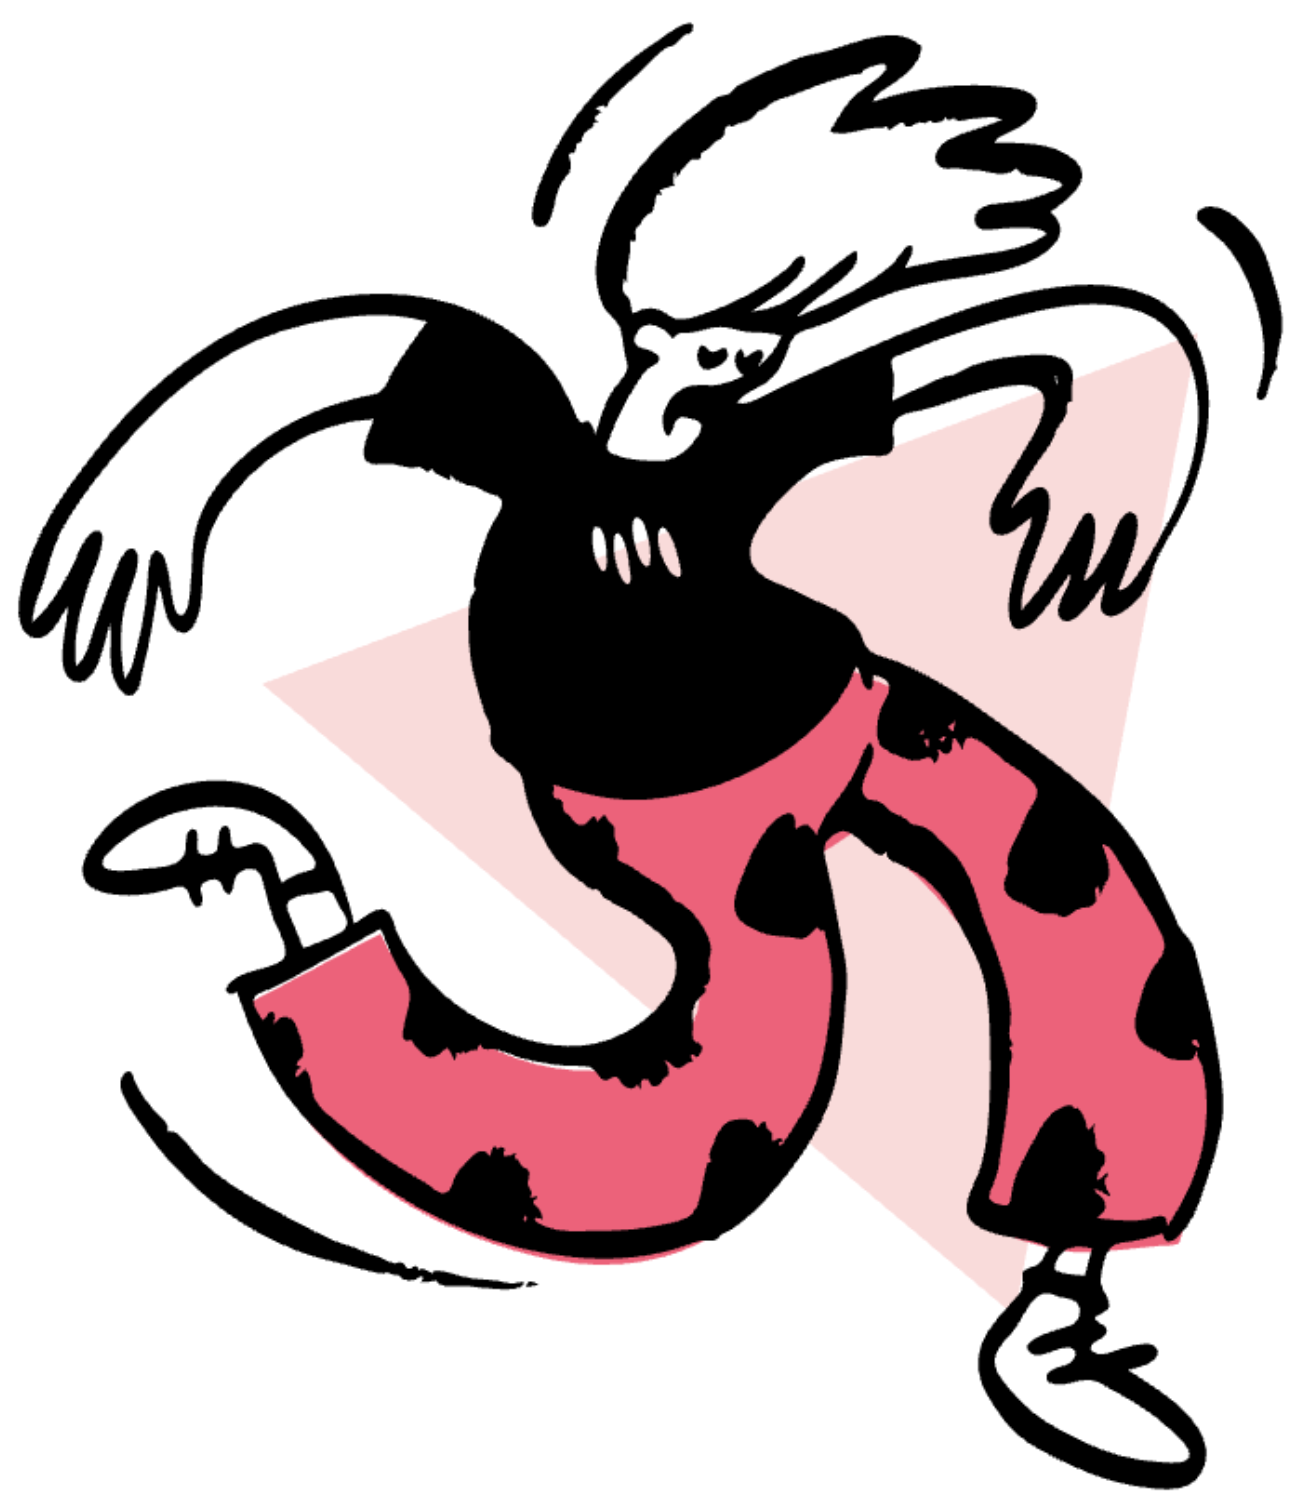
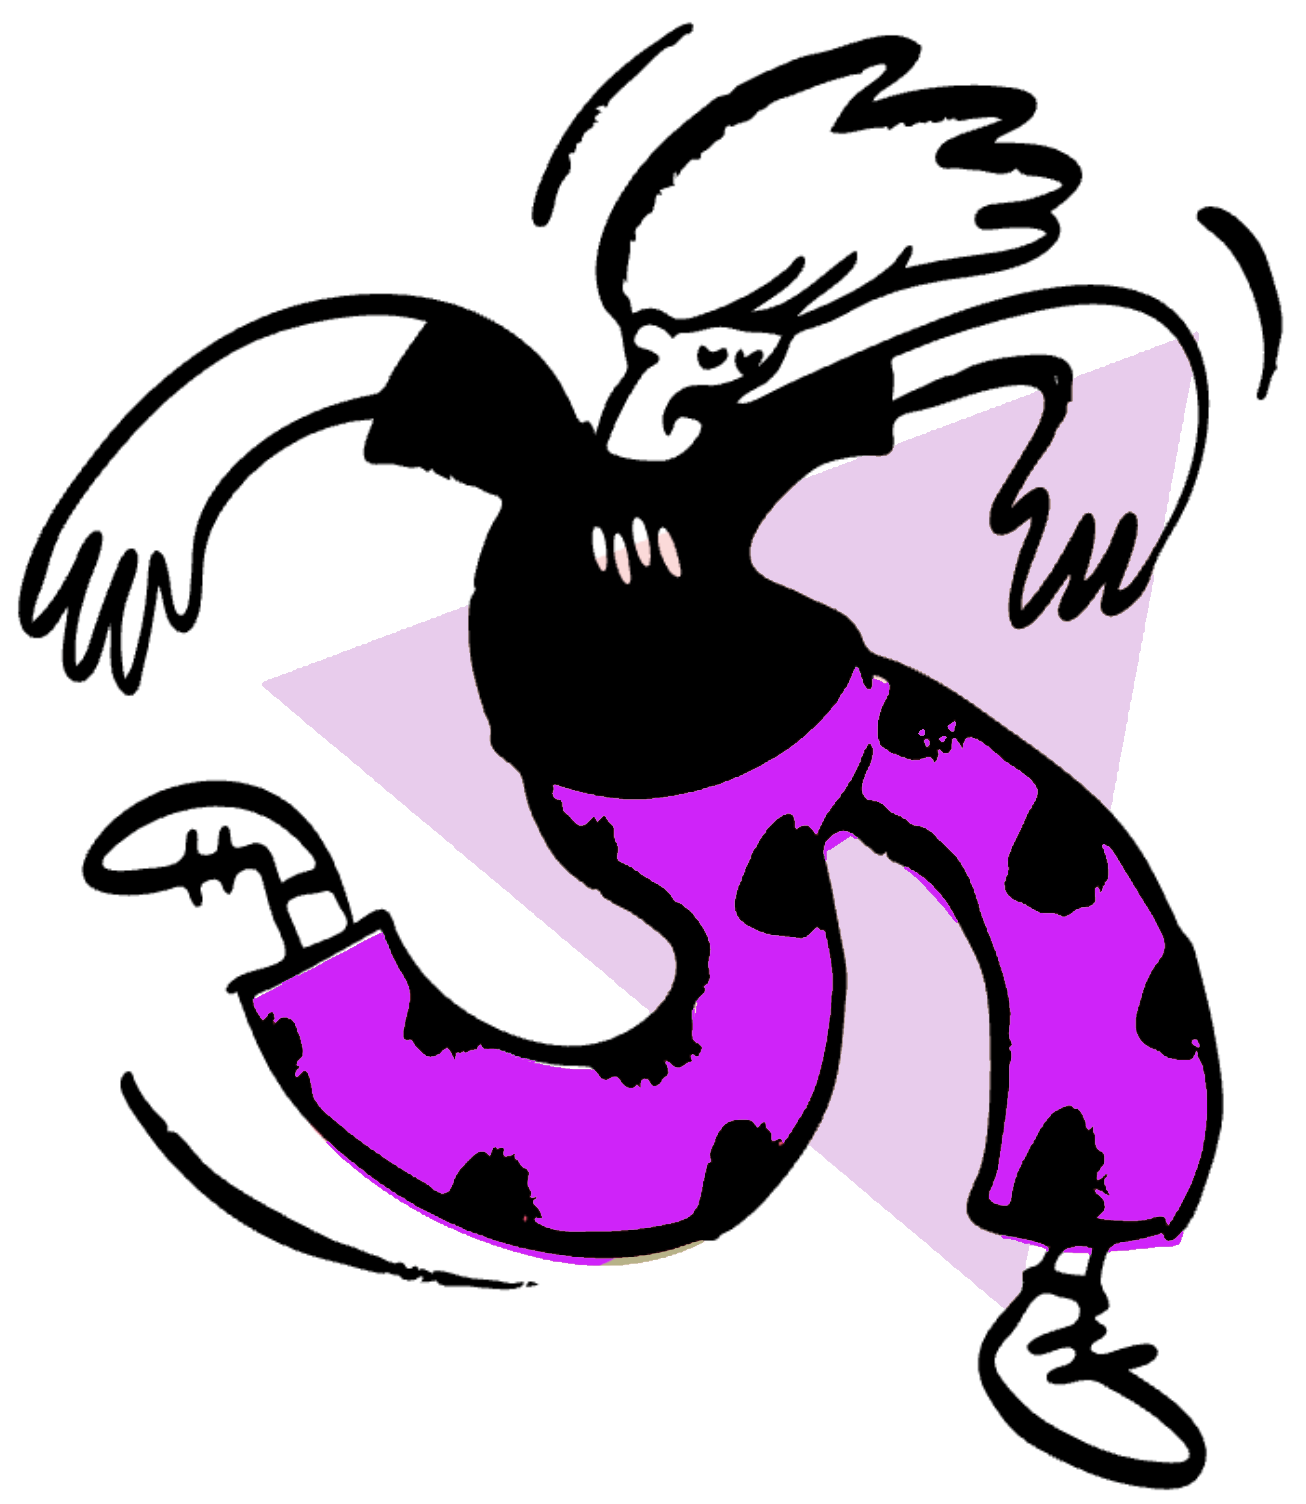
form contact website

Changed region(s): [[0.1838, 0.4375, 0.9495, 0.8438]]

diff --git a/src/components/JoinForm.vue b/src/components/JoinForm.vue
@@ -1,0 +1,129 @@
+<template>
+  <div class="min-h-screen bg-white py-12 px-4 sm:px-6 lg:px-8">
+    <div class="max-w-2xl mx-auto">
+      <!-- Header -->
+      <router-link to="/" class="text-[#BE37F3] font-din-light text-sm absolute top-4 left-4"> NQ PAY </router-link>
+
+      <div v-if="!submitted">
+        <div class="text-center">
+          <h2 class="mt-6 text-3xl font-din-black text-gray-900">Unite a <span class="text-[#BE37F3]">NQ Pay</span></h2>
+          <p class="mt-2 text-sm text-gray-600 font-din-light">Completá los datos de tu comercio para empezar a recibir más clientes</p>
+        </div>
+
+        <!-- Form -->
+        <form @submit.prevent="handleSubmit" class="mt-8 space-y-6">
+          <div class="space-y-4">
+            <div>
+              <label for="businessName" class="block text-sm font-din-light text-gray-700"> Nombre del comercio </label>
+              <input
+                id="businessName"
+                v-model="form.businessName"
+                type="text"
+                required
+                class="mt-1 block w-full border border-gray-300 rounded-md shadow-sm py-2 px-3 focus:outline-none focus:ring-[#BE37F3] focus:border-[#BE37F3]"
+              />
+            </div>
+
+            <div>
+              <label for="email" class="block text-sm font-din-light text-gray-700"> Email de contacto </label>
+              <input
+                id="email"
+                v-model="form.email"
+                type="email"
+                required
+                class="mt-1 block w-full border border-gray-300 rounded-md shadow-sm py-2 px-3 focus:outline-none focus:ring-[#BE37F3] focus:border-[#BE37F3]"
+              />
+            </div>
+
+            <div>
+              <label for="phone" class="block text-sm font-din-light text-gray-700"> Teléfono </label>
+              <input
+                id="phone"
+                v-model="form.phone"
+                type="tel"
+                required
+                class="mt-1 block w-full border border-gray-300 rounded-md shadow-sm py-2 px-3 focus:outline-none focus:ring-[#BE37F3] focus:border-[#BE37F3]"
+              />
+            </div>
+
+            <!-- <div>
+              <label for="address" class="block text-sm font-din-light text-gray-700"> Dirección del comercio </label>
+              <input
+                id="address"
+                v-model="form.address"
+                type="text"
+                required
+                class="mt-1 block w-full border border-gray-300 rounded-md shadow-sm py-2 px-3 focus:outline-none focus:ring-[#BE37F3] focus:border-[#BE37F3]"
+              />
+            </div> -->
+
+            <div>
+              <label for="type" class="block text-sm font-din-light text-gray-700"> Tipo de comercio </label>
+              <select
+                id="type"
+                v-model="form.type"
+                required
+                class="mt-1 block w-full border border-gray-300 rounded-md shadow-sm py-2 px-3 focus:outline-none focus:ring-[#BE37F3] focus:border-[#BE37F3]"
+              >
+                <option value="">Seleccionar tipo</option>
+                <option value="bar">Bar</option>
+                <option value="boliche">Boliche</option>
+                <option value="restaurante">Restaurante</option>
+                <option value="festival">Festival</option>
+                <option value="otro">Otro</option>
+              </select>
+            </div>
+          </div>
+
+          <div>
+            <button
+              type="submit"
+              class="w-full flex justify-center py-2 px-4 border border-transparent rounded-md shadow-sm text-sm font-din-light text-white bg-[#BE37F3] hover:bg-opacity-90 focus:outline-none focus:ring-2 focus:ring-offset-2 focus:ring-[#BE37F3]"
+            >
+              Enviar solicitud
+            </button>
+          </div>
+        </form>
+      </div>
+
+      <!-- Success State -->
+      <div v-else class="text-center mt-12">
+        <div class="mx-auto flex items-center justify-center h-24 w-24 rounded-full bg-[#BE37F3] bg-opacity-10 mb-8">
+          <svg class="h-16 w-16 text-[#BE37F3]" fill="none" viewBox="0 0 24 24" stroke="currentColor">
+            <path stroke-linecap="round" stroke-linejoin="round" stroke-width="2" d="M5 13l4 4L19 7" />
+          </svg>
+        </div>
+        <h2 class="text-3xl font-din-black text-[#1C1C1E] mb-4">¡Gracias por elegirnos!</h2>
+        <p class="text-lg text-gray-600 font-din-light mb-8">Recibimos tu solicitud y nos pondremos en contacto lo antes posible.</p>
+        <router-link to="/" class="inline-flex items-center px-6 py-3 border border-transparent text-base font-din-light rounded-md text-white bg-[#BE37F3] hover:bg-opacity-90">
+          Volver al inicio
+        </router-link>
+      </div>
+    </div>
+  </div>
+</template>
+
+<script setup>
+import { ref } from 'vue'
+
+const submitted = ref(false)
+const form = ref({
+  businessName: '',
+  email: '',
+  phone: '',
+  // address: '',
+  type: '',
+})
+
+const handleSubmit = async () => {
+  try {
+    // Aquí puedes agregar la lógica para enviar el formulario
+    console.log('Formulario enviado:', form.value)
+    // Ejemplo: await axios.post('/api/join-request', form.value)
+    submitted.value = true
+  } catch (error) {
+    console.error('Error al enviar el formulario:', error)
+    alert('Hubo un error al enviar el formulario. Por favor, intenta nuevamente.')
+  }
+}
+</script>

diff --git a/src/components/Home.vue b/src/components/Home.vue
@@ -1,16 +1,25 @@
 <template>
-  <div class="h-screen w-screen flex flex-col items-center bg-white">
-    <!-- Header -->
-    <div class="absolute top-4 left-4 text-pink-500 font-din-light text-sm">NQ PAY</div>
+  <div class="h-screen w-screen flex flex-col items-center bg-white relative">
+    <!-- Header with Join Button -->
+    <div class="absolute top-4 left-6 flex items-center gap-4">
+      <div class="text-[#BE37F3] font-din-light text-sm">NQ PAY</div>
+    </div>
+
+    <router-link
+      to="/join"
+      class="absolute top-4 right-6 border border-1 border-[#BE37F3] text-[#BE37F3] px-4 py-2 rounded-md font-din-light text-sm hover:bg-opacity-90 transition-colors"
+    >
+      Soy un negocio
+    </router-link>
 
     <!-- Main Content -->
     <div class="flex items-center justify-center h-full">
       <div class="h-auto w-1/3 flex flex-col items-center">
-        <h1 class="text-9xl font-din-black text-[#FF5678]">-</h1>
+        <h1 class="text-9xl font-din-black text-[#BE37F3]">-</h1>
         <h1 class="text-9xl font-din-black relative">FILA</h1>
         <div class="flex-grow flex items-end">
-          <button class="flex gap-2 absolute bg-[#FF5678] text-lg text-white items-center rounded-md bottom-[300px] transform -translate-x-1/2 px-6 py-2.5 font-din-light text-md">
-            <img src="../assets/apple_icon.svg"></img>
+          <button class="flex gap-2 absolute bg-[#BE37F3] text-lg text-white items-center rounded-md bottom-[300px] transform -translate-x-1/2 px-6 py-2.5 font-din-light text-md">
+            <img src="../assets/apple_icon.svg" alt="Apple icon" />
             <a class="font-din-light">App Store</a>
           </button>
         </div>
@@ -18,13 +27,24 @@
       <img src="../assets/bg.png" alt="Dancing Illustration" class="h-auto w-1/3 object-contain" />
       <div class="h-auto w-1/3 flex flex-col items-center pr-20">
         <h1 class="text-9xl font-din-black">+</h1>
-        <h1 class="text-9xl font-din-black text-[#FF5678]">FIESTA</h1>
-        <button class="flex gap-2 absolute border border-1 border-black text-lg text-black items-center rounded-md bottom-[300px] transform px-6 py-2.5 font-din-light text-md">
-          <img src="../assets/android_icon.svg"></img>
+        <h1 class="text-9xl font-din-black text-[#BE37F3]">FIESTA</h1>
+        <button
+          class="flex gap-2 absolute border border-1 border-[#1C1C1E] text-lg text-[#1C1C1E] items-center rounded-md bottom-[300px] transform px-6 py-2.5 font-din-light text-md"
+        >
+          <img src="../assets/android_icon.svg" alt="Android icon" />
           <a class="font-din-light">Google Store</a>
         </button>
       </div>
     </div>
+
+    <!-- Support Button -->
+    <a
+      href="mailto:soporte@nqpay.lat"
+      class="fixed bottom-6 right-6 w-12 h-12 border border-1 border-[#BE37F3] rounded-full flex items-center justify-center text-[#BE37F3] text-2xl hover:bg-opacity-90 transition-colors shadow-lg"
+      title="Contact Support"
+    >
+      ?
+    </a>
 
     <!-- Footer -->
     <div class="text-center text-gray-500 text-sm py-4 font-din-light">
@@ -35,7 +55,7 @@
 </template>
 
 <script setup>
-// You can add interactivity here if needed
+// No additional setup needed for this component
 </script>
 
 <style>

diff --git a/src/main.js b/src/main.js
@@ -5,17 +5,19 @@ import './style.css'
 import App from './App.vue'
 import Home from './components/Home.vue'
 import PrivacyPolicy from './components/PrivacyPolicy.vue'
+import JoinForm from './components/JoinForm.vue'
 
 const app = createApp(App)
 
 const router = new createRouter({
-    history: createWebHistory(),
-    routes: [
-        { path: '/', component: Home},
-        { path: '/privacy-policy', component: PrivacyPolicy },
-        { path: '/:pathMatch(.*)*', redirect: '/' },
-    ],
+  history: createWebHistory(),
+  routes: [
+    { path: '/', component: Home },
+    { path: '/join', component: JoinForm },
+    { path: '/privacy-policy', component: PrivacyPolicy },
+    { path: '/:pathMatch(.*)*', redirect: '/' },
+  ],
 })
-  
+
 app.use(router)
 app.mount('#app')
